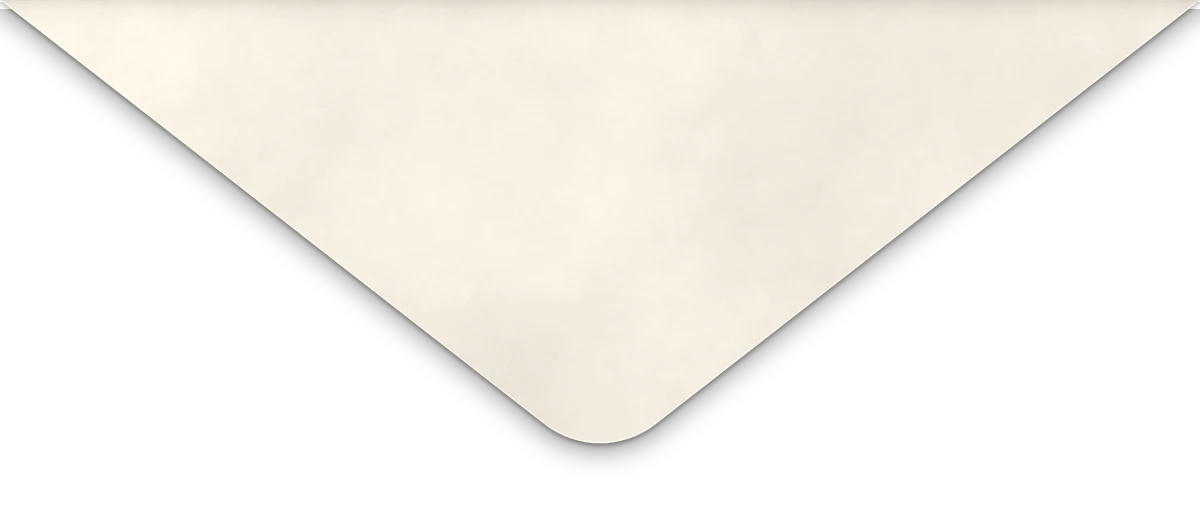
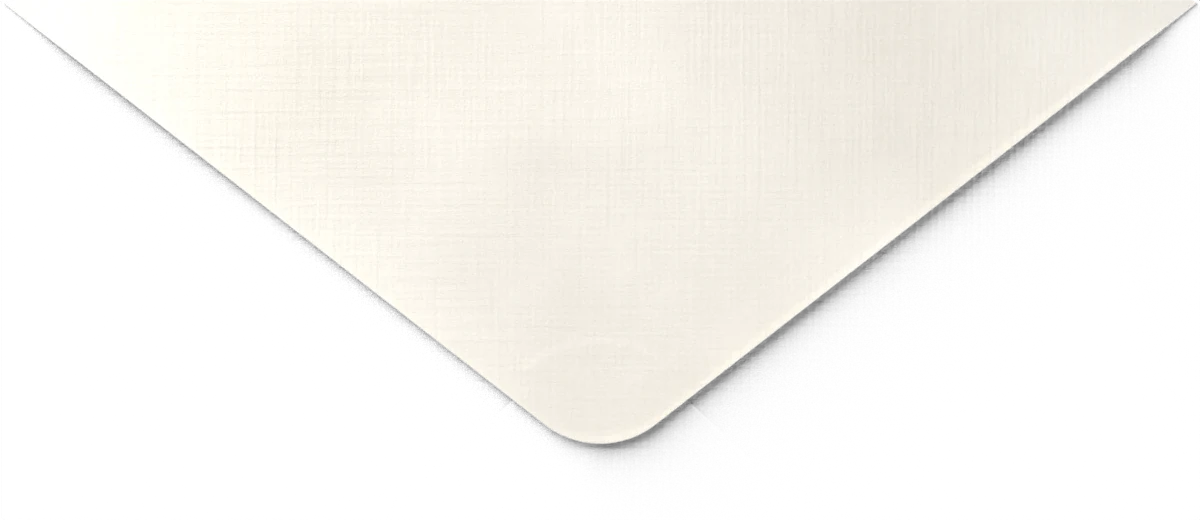
Envelope: ivory linen paper, the app's new Blender-rendered layers
The same four pictures as the app (back, pocket, flap_out, flap_in), now
rendered in 3D in Blender by tool/envelope/render_paper.py in the app
repo. Same sizes and geometry, so no page code changes; two comments
name the new script.

diff --git a/sealed/index.html b/sealed/index.html
@@ -54,8 +54,9 @@
   --e-paper:#FBF6EC; --e-paper-2:#F0E4CF; --e-flap:#F7EFE1; --e-flap-2:#EADCC2;
   --e-inside:#E6D6B8; --e-inside-2:#D9C6A2; --e-ink:#1F2A44; --e-pencil:#7A7264;
   --wax:#A82E1E; --wax-light:#D0573C; --wax-deep:#6E1A10; --e-postmark:#9C3B2A;
-  /* The envelope's pictures: the app's own, rendered by
-     tool/envelope/render_envelope.py in the app repo. */
+  /* The envelope's pictures: the app's own - the paper rendered in Blender by
+     tool/envelope/render_paper.py, the wax by tool/envelope/render_envelope.py,
+     both in the app repo. */
   --i-back:url("/img/envelope/back.webp"); --i-pocket:url("/img/envelope/pocket.webp");
   --i-flap-out:url("/img/envelope/flap_out.webp"); --i-flap-in:url("/img/envelope/flap_in.webp");
   --i-paper:url("/img/envelope/paper.webp");

diff --git a/envelope-art.js b/envelope-art.js
@@ -19,8 +19,9 @@
                lifts, the letter rises in light, the envelope drops away and
                the letter becomes the card.
 
-   Pictures: /img/envelope/*.webp, rendered by tool/envelope/render_envelope.py
-   in the app repo (the same files /sealed/ uses). Styles: envelope-art.css.
+   Pictures: /img/envelope/*.webp, rendered by tool/envelope/render_paper.py
+   (the paper) and render_envelope.py (the wax) in the app repo (the same
+   files /sealed/ uses). Styles: envelope-art.css.
    Nothing moves under prefers-reduced-motion: each step just happens.
 
    Text from a link or a visitor only ever goes in with textContent.
